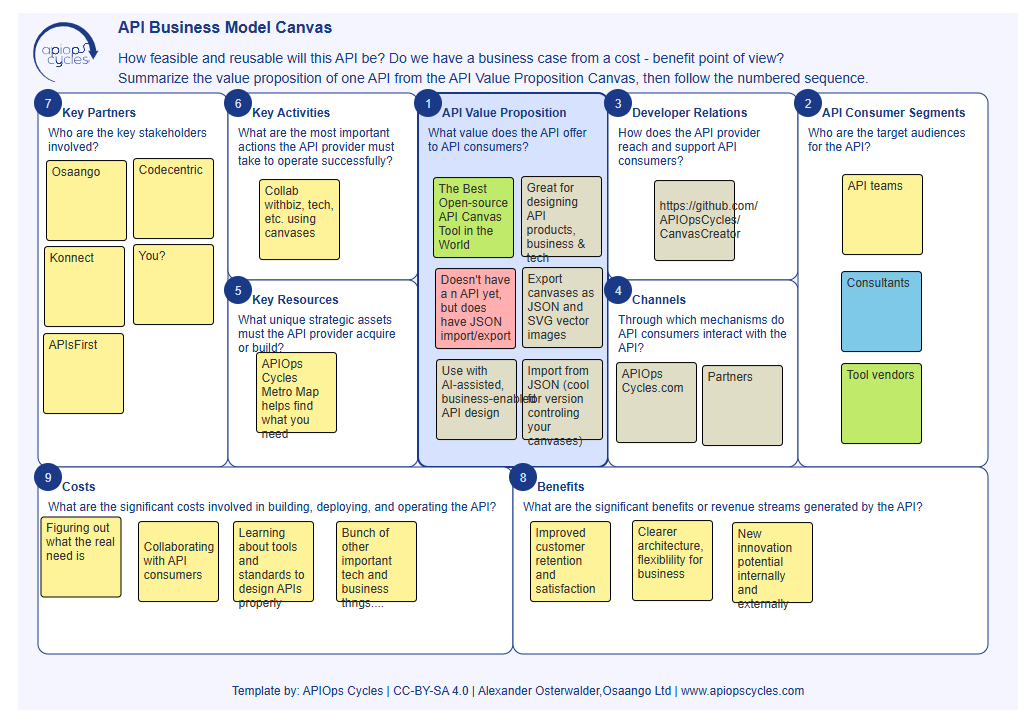
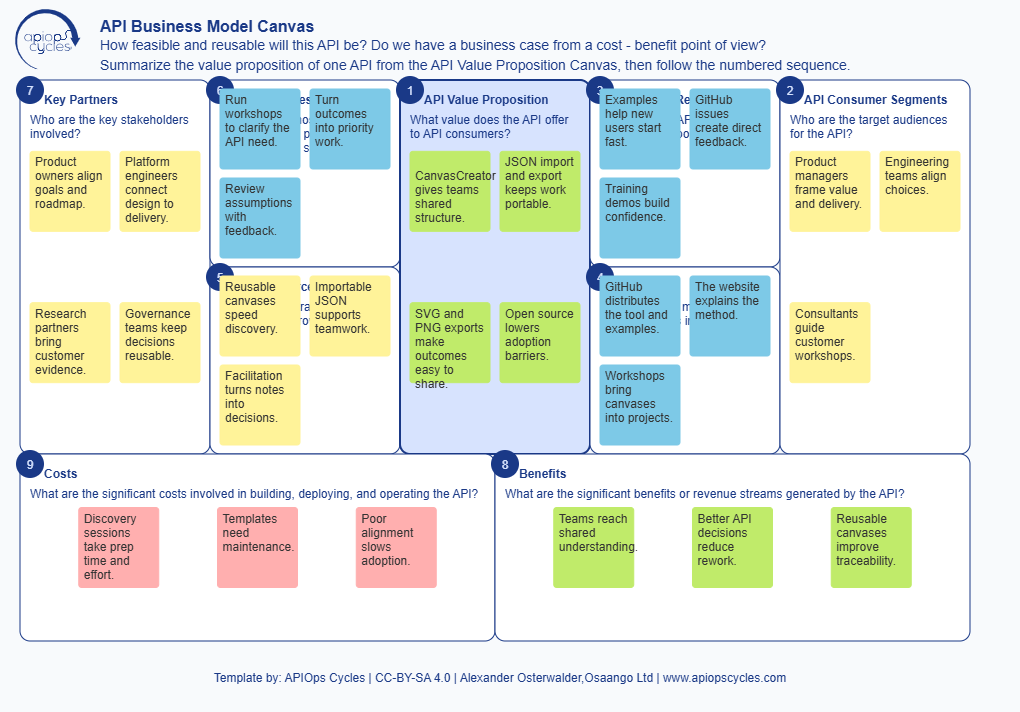
Improve canvas import examples

diff --git a/tests/examples.test.js b/tests/examples.test.js
@@ -1,0 +1,40 @@
+const fs = require('fs');
+const path = require('path');
+const canvasData = require('apiops-cycles-method-data/canvasData.json');
+
+describe('shipped example JSON', () => {
+  test('api business model example is importable and template-complete', () => {
+    const filePath = path.join(
+      __dirname,
+      '..',
+      'examples',
+      'Canvas_apiBusinessModelCanvas_en.json',
+    );
+    const content = JSON.parse(fs.readFileSync(filePath, 'utf8'));
+    const expectedSections = canvasData[content.templateId].sections.map(
+      (section) => section.id,
+    );
+
+    expect(content.templateId).toBe('apiBusinessModelCanvas');
+    expect(content.locale).toBe('en');
+    expect(content.metadata.source).toBe('APIOps Cycles method');
+    expect(content.metadata.license).toBe('CC-BY-SA 4.0');
+    expect(content.metadata.website).toBe('www.apiopscycles.com');
+    expect(Array.isArray(content.metadata.authors)).toBe(true);
+    expect(content.metadata.authors.length).toBeGreaterThan(0);
+    expect(content.sections.map((section) => section.sectionId)).toEqual(
+      expectedSections,
+    );
+
+    for (const section of content.sections) {
+      expect(Array.isArray(section.stickyNotes)).toBe(true);
+      for (const note of section.stickyNotes) {
+        expect(note.content).toBe(note.content.trim());
+        expect(note.content.length).toBeGreaterThan(0);
+        expect(note.size).toBe(80);
+        expect(note.color).toMatch(/^#([0-9A-Fa-f]{6})$/);
+        expect(note.position).toBeUndefined();
+      }
+    }
+  });
+});
